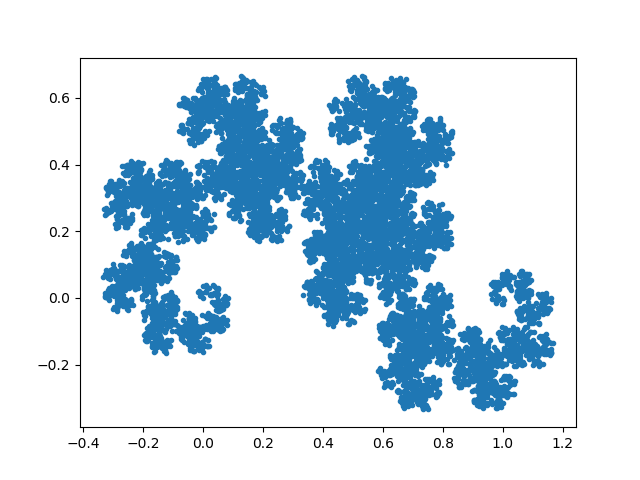
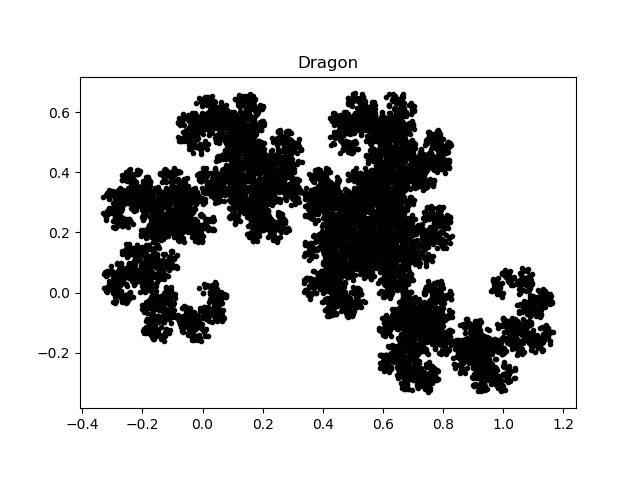
Cleaned up figures; better scale, added titles, changed color.

diff --git a/src/main.py b/src/main.py
@@ -1,9 +1,11 @@
 import numpy as np
 import matplotlib.pyplot as plt
+import os
 
 
 class Fractal:
     def __init__(self, file_name, numits=10000):
+        self.name = os.path.basename(file_name)
         self.data = np.loadtxt(file_name)
         self.x = np.empty(numits)
         self.y = np.empty(numits)
@@ -26,15 +28,15 @@ class Fractal:
 
     def plotting(self):
         fig, ax = plt.subplots()
-        # ax.set_xlim(-4, 4)
-        # ax.set_ylim(0, 100)
-        ax.scatter(self.x[:self.n], self.y[:self.n], marker=".")
-        plt.savefig("../figures/koch.png")
+        ax.set_title(self.name.capitalize())
+        ax.set_aspect('equal', 'box')
+        plt.scatter(self.x[:self.n], self.y[:self.n], marker=".", c='k')
+        plt.savefig("../figures/{0}.png".format(self.name))
         plt.show()
 
 
 def main():
-    test = Fractal("../data/koch snowflake")
+    test = Fractal("../data/tree")
     print(test.data)
     print(test.data.shape)
     test.ran_it()
